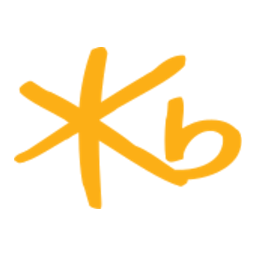
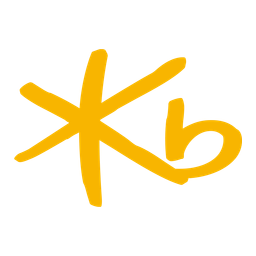
💄 (style) #219 :: 은행 로고를 Figma 로고 모음 심볼로 교체 (24개 코드), 다크 모드 짙은 로고 바탕

diff --git a/apps/mobile/src/components/bank-logos.ts b/apps/mobile/src/components/bank-logos.ts
@@ -38,32 +38,35 @@ import l067 from '../../assets/banks/067.png';
 
 /**
  * 은행 로고 (금융결제원 은행 코드 → 이미지). 각 로고는 해당 은행의 상표이며, 은행 선택 화면에서 식별용으로만 쓴다.
- * 이미지 출처: Wikimedia Commons · English Wikipedia 의 로고 파일, 위키에 없는 곳은 각 기관 공식 홈페이지의 로고 이미지 (출처는 아래 주석).
- * 원본 락업에서 배경을 빼고 심볼만 잘라 256×256 투명 PNG 로 만들었다 (심볼이 따로 없는 곳 — 씨티·BNK·케이뱅크·미즈호 — 은 워드마크).
+ * 이미지 출처: 국내 은행·상호금융은 Figma 파일 「대한민국 은행·카드사 로고 모음」의 컴포넌트(original, 없으면 mono)에서
+ * 흰 둥근 타일·테두리를 빼고 심볼만 내보냈다. 해외 은행·저축은행·산림조합은 Wikimedia Commons · English Wikipedia ·
+ * 각 기관 공식 홈페이지의 로고 이미지 (출처는 아래 주석).
+ * 모두 256×256 투명 PNG 에 심볼을 228px 안으로 가운데 맞췄다 (심볼이 따로 없는 곳 — 씨티·BNK·케이뱅크·미즈호 — 은 워드마크,
+ * 카카오뱅크는 노란 둥근 사각형까지가 심볼). 같은 그룹은 심볼을 함께 쓴다 (신한·제주, 부산·경남, 광주·전북, 수협, 농협).
  * 목록에 없는 은행이 생기면 BankLogo 가 대표 색 배지로 대신한다.
  */
 export const BANK_LOGOS: Record<string, ImageSourcePropType> = {
-  '004': l004, // commons: KB logo.svg
-  '088': l088, // commons: Shinhan Bank Logo (ENG).svg
-  '020': l020, // commons: Logo of Woori Bank.svg
-  '081': l081, // commons: Hana Bank Logo (eng).svg
-  '011': l011, // commons: NACF (NongHyup) Logo.svg
-  '012': l012, // commons: NACF (NongHyup) Logo.svg
-  '003': l003, // commons: Industrial Bank of Korea Logo.svg
-  '090': l090, // commons: KakaoBank logo.svg
-  '092': l092, // commons: TossBank Logo Primary.png
-  '089': l089, // commons: Kbank logo.svg
-  '023': l023, // commons: Standard Chartered Logo (2021, Logo only).svg
-  '027': l027, // commons: Citi.svg
-  '002': l002, // commons: KDB logo.png
-  '007': l007, // commons: NFFC (SuHyup) Logo.svg
-  '030': l030, // commons: NFFC (SuHyup) Logo.svg
-  '032': l032, // commons: BNK Financial Group logo 01.png
-  '039': l039, // commons: BNK Financial Group logo 01.png
-  '034': l034, // commons: Jbfglogo.png
-  '037': l037, // commons: Jbfglogo.png
-  '071': l071, // commons: Emblem of Korea Post.svg
-  '048': l048, // commons: 신협 로고.svg
+  '004': l004, // Figma: 대한민국 은행·카드사 로고 모음 (KB국민은행/original)
+  '088': l088, // Figma: 대한민국 은행·카드사 로고 모음 (신한, 제주은행/original)
+  '020': l020, // Figma: 대한민국 은행·카드사 로고 모음 (우리은행/original)
+  '081': l081, // Figma: 대한민국 은행·카드사 로고 모음 (KEB하나은행/original)
+  '011': l011, // Figma: 대한민국 은행·카드사 로고 모음 (NH농협은행)
+  '012': l012, // Figma: 대한민국 은행·카드사 로고 모음 (NH농협은행)
+  '003': l003, // Figma: 대한민국 은행·카드사 로고 모음 (IBK기업은행/original)
+  '090': l090, // Figma: 대한민국 은행·카드사 로고 모음 (카카오뱅크/original)
+  '092': l092, // Figma: 대한민국 은행·카드사 로고 모음 (토스뱅크/original)
+  '089': l089, // Figma: 대한민국 은행·카드사 로고 모음 (케이뱅크/original)
+  '023': l023, // Figma: 대한민국 은행·카드사 로고 모음 (SC제일은행/original)
+  '027': l027, // Figma: 대한민국 은행·카드사 로고 모음 (시티은행/original)
+  '002': l002, // Figma: 대한민국 은행·카드사 로고 모음 (KDB산업은행/original)
+  '007': l007, // Figma: 대한민국 은행·카드사 로고 모음 (수협은행)
+  '030': l030, // Figma: 대한민국 은행·카드사 로고 모음 (수협은행)
+  '032': l032, // Figma: 대한민국 은행·카드사 로고 모음 (경남, 부산은행/original)
+  '039': l039, // Figma: 대한민국 은행·카드사 로고 모음 (경남, 부산은행/original)
+  '034': l034, // Figma: 대한민국 은행·카드사 로고 모음 (광주, 전북은행/original)
+  '037': l037, // Figma: 대한민국 은행·카드사 로고 모음 (광주, 전북은행/original)
+  '071': l071, // Figma: 대한민국 은행·카드사 로고 모음 (우체국/mono)
+  '048': l048, // Figma: 대한민국 은행·카드사 로고 모음 (신협/mono)
   '054': l054, // commons: HSBC logo (2018).svg
   '055': l055, // commons: Deutsche Bank logo without wordmark.svg
   '057': l057, // commons: Chase logo 2007.svg
@@ -74,9 +77,12 @@ export const BANK_LOGOS: Record<string, ImageSourcePropType> = {
   '062': l062, // en.wikipedia: Industrial and Commercial Bank of China logo.svg
   '063': l063, // commons: Bank of China symbol.svg
   '067': l067, // en.wikipedia: China Construction Bank.svg
-  '031': l031, // 공식 사이트: www.imbank.co.kr 헤더 로고 (ebz_top_dgb_logo_up.gif)
-  '035': l035, // 공식 사이트: www.jejubank.co.kr 헤더 로고 (head/logo.png 윗부분)
-  '045': l045, // 공식 사이트: www.kfcc.co.kr BI (bi_logo2.png)
+  '031': l031, // Figma: 대한민국 은행·카드사 로고 모음 (iM뱅크/original)
+  '035': l035, // Figma: 대한민국 은행·카드사 로고 모음 (신한, 제주은행/original)
+  '045': l045, // Figma: 대한민국 은행·카드사 로고 모음 (MG새마을금고/mono)
   '050': l050, // 공식 사이트: www.fsb.or.kr 저축은행중앙회 로고
   '064': l064, // 공식 사이트: www.nfcf.or.kr 산림조합중앙회 로고
 };
+
+/** 짙은 남색 글자 로고 — 다크 모드에서는 흰 바탕을 깔아야 보인다 */
+export const DARK_INK_LOGOS = new Set(['027', '089']);

diff --git a/apps/mobile/src/components/bank-picker.tsx b/apps/mobile/src/components/bank-picker.tsx
@@ -3,7 +3,7 @@ import { Image } from 'expo-image';
 import { useState } from 'react';
 import { useTranslation } from 'react-i18next';
 import { Pressable, StyleSheet, TextInput, useWindowDimensions, View } from 'react-native';
-import { BANK_LOGOS } from '@/components/bank-logos';
+import { BANK_LOGOS, DARK_INK_LOGOS } from '@/components/bank-logos';
 import { Icon } from '@/components/ui/icon';
 import { Sheet } from '@/components/ui/sheet';
 import { Text } from '@/components/ui/text';
@@ -22,7 +22,15 @@ export function BankLogo({ bank, name, height = 36 }: { bank?: Bank; name?: stri
   const box = { width, height, borderRadius: Math.round(height * 0.22) };
   if (logo)
     return (
-      <View accessible={false} style={[styles.logoBox, box]}>
+      <View
+        accessible={false}
+        style={[
+          styles.logoBox,
+          box,
+          // 짙은 글자 로고는 다크 모드에서 흰 바탕 위에 둔다
+          t.dark && bank && DARK_INK_LOGOS.has(bank.code) && { backgroundColor: '#FFFFFF' },
+        ]}
+      >
         <Image source={logo} style={styles.logoImage} contentFit="contain" />
       </View>
     );
